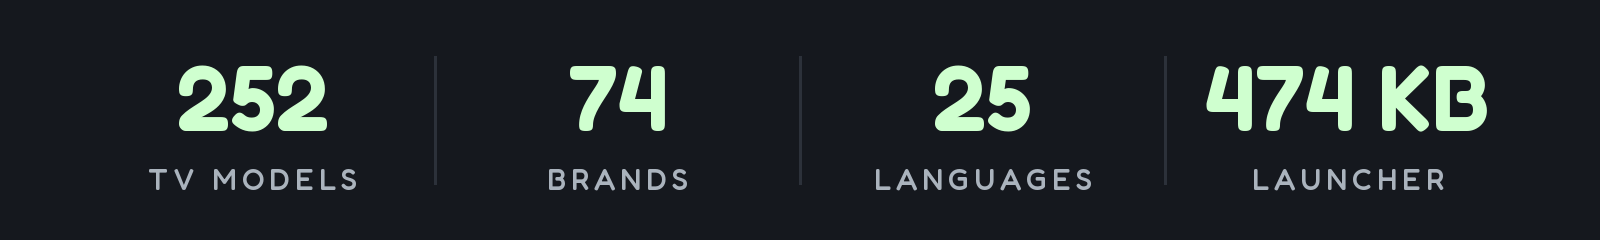
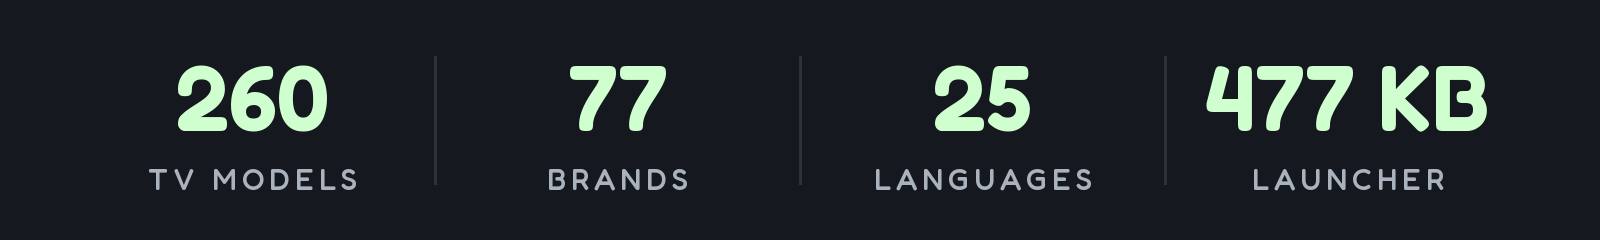
README: counts and card after Round T (260 TV models, 77 brands, 477 KB); Acer, Master-G and HOTACK join the brand list

Changed region(s): [[0.125, 0.2625, 0.2188, 0.5542], [0.375, 0.2625, 0.4375, 0.5542], [0.8125, 0.2625, 0.8438, 0.5542]]

diff --git a/tools/readme_stats.py b/tools/readme_stats.py
@@ -12,7 +12,7 @@ except ImportError:
     sys.exit("readme_stats.py needs Pillow: tools/venv/bin/pip install -r tools/requirements-perf.txt")
 
 FONT, OUT = sys.argv[1], sys.argv[2]
-STATS = [("252", "TV MODELS"), ("74", "BRANDS"), ("25", "LANGUAGES"), ("474 KB", "LAUNCHER")]
+STATS = [("260", "TV MODELS"), ("77", "BRANDS"), ("25", "LANGUAGES"), ("477 KB", "LAUNCHER")]
 W, H = 1600, 240
 img = Image.new("RGB", (W, H), "#15181e"); d = ImageDraw.Draw(img)
 def f(size, wt):

diff --git a/README.md b/README.md
@@ -19,7 +19,7 @@
 </p>
 
 <p align="center">
-  <a href="docs/PRESS.md"><img src="docs/card.jpg" alt="252 TV models · 74 brands · 25 languages · 474 KB launcher. Featured in TechCrunch, TechRadar, Tom's Guide, Mashable, Android Authority, XDA, FlatpanelsHD, It's FOSS, Phandroid, GIGAZINE, Xataka, WinFuture, Frandroid, Macitynet, Techaeris, TechPP and 171 more: 187 articles from 31 countries. Before: stock Google TV home with a sponsored ad. After: the Clean Your TV launcher." width="800"></a>
+  <a href="docs/PRESS.md"><img src="docs/card.jpg" alt="260 TV models · 77 brands · 25 languages · 477 KB launcher. Featured in TechCrunch, TechRadar, Tom's Guide, Mashable, Android Authority, XDA, FlatpanelsHD, It's FOSS, Phandroid, GIGAZINE, Xataka, WinFuture, Frandroid, Macitynet, Techaeris, TechPP and 171 more: 187 articles from 31 countries. Before: stock Google TV home with a sponsored ad. After: the Clean Your TV launcher." width="800"></a>
 </p>
 
 **The viral tweet:** [x.com/gathint/status/2111379569030939102](https://x.com/gathint/status/2111379569030939102)
@@ -112,14 +112,14 @@ Anything running **Android TV** or **Google TV**.
 
 Tested lists from contributors, one folder per model in [`examples/`](examples/):
 
-**TCL** 57 · **Sony** 31 · **Xiaomi** 28 · **Philips** 12 · **Hisense** 9 · **Skyworth** 9 · **Amazon Fire TV** 7 ·
-**Thomson** 4 · **BenQ** 3 · **Google** 3 · **OnePlus** 3 · **Panasonic** 3 · **CHiQ** 2 · **FFalcon** 2 · **Haier** 2 ·
-**Hitachi** 2 · **Kalley** 2 · **Motorola** 2 · **Nokia** 2 · **NVIDIA Shield** 2 · **onn** 2 · **Redmi** 2 ·
-**SHARP** 2 · **Toshiba** 2 · **Vu** 2 ·
-AiPro2K · AIWA · Artel · Caxium · Cecotec · Challenger · Compac · Dialog · EKO · Freebox · Grundig · Insignia Fire TV ·
-JVC · Karbonn · Kogan · Lumio · MTC · Noblex · OK. · PEAQ · Polytron · PRISM+ · RCA · RockTek · Sankey · SANYO · Sber ·
-Super General · Tele System · TiVo · Tornado · Turkcell · Verizon · Vidda · Vision ·
-Anker Nebula, BYINTEK, Epson, Formovie, Gadnic, JMGO, Magcubic, Portronics, Stellamore, Wanbo and XGIMI projectors
+**TCL** 57 · **Sony** 31 · **Xiaomi** 28 · **Philips** 14 · **Hisense** 9 · **Skyworth** 9 · **Amazon Fire TV** 7 ·
+**Thomson** 4 · **BenQ** 3 · **Google** 3 · **Haier** 3 · **OnePlus** 3 · **Panasonic** 3 · **CHiQ** 2 · **FFalcon** 2 ·
+**Hitachi** 2 · **Kalley** 2 · **Motorola** 2 · **Nokia** 2 · **NVIDIA Shield** 2 · **onn** 2 · **RCA** 2 · **Redmi** 2 ·
+**Sankey** 2 · **SHARP** 2 · **Toshiba** 2 · **Vu** 2 ·
+Acer · AiPro2K · AIWA · Artel · Caxium · Cecotec · Challenger · Compac · Dialog · EKO · Freebox · Grundig ·
+Insignia Fire TV · JVC · Karbonn · Kogan · Lumio · Master-G · MTC · Noblex · OK. · PEAQ · Polytron · PRISM+ · RockTek ·
+SANYO · Sber · Super General · Tele System · TiVo · Tornado · Turkcell · Verizon · Vidda · Vision ·
+Anker Nebula, BYINTEK, Epson, Formovie, Gadnic, HOTACK, JMGO, Magcubic, Portronics, Stellamore, Wanbo and XGIMI projectors
 
 <details>
 <summary><strong>The full list</strong></summary>
@@ -425,7 +425,7 @@ tools/theme.sh themes/aurora                                 # push a theme; --r
 | [`tools/flamechart.py`](tools/flamechart.py) | Draws a before/after flame chart from those traces, for a pull request: one lane per thread on a shared time scale, the work a change targets in magenta with its total. Optional, like the trace tools. [Guide](tools/flamechart.md). |
 | [`tools/screendiff.py`](tools/screendiff.py) | Compares a before and an after screenshot pixel by pixel, leaving out the clock or anything you mask, and writes the pair with your Wi-Fi name blurred. Optional, like the trace tools. [Guide](tools/screendiff.md). |
 | [`tools/race_calendar.py`](tools/race_calendar.py) | Writes this season's F1 calendar into a theme for race-weekend mode, from the free Jolpica API. |
-| [`launcher/build-and-install.sh`](launcher/build-and-install.sh) | Builds a shrunk release (about 474 KB), installs it, switches Home, and rolls back if Home does not land on it. |
+| [`launcher/build-and-install.sh`](launcher/build-and-install.sh) | Builds a shrunk release (about 477 KB), installs it, switches Home, and rolls back if Home does not land on it. |
 
 The scripts never leave the TV without a Home app: they only disable a stock launcher they recognise,
 and skip the Home app in a list until another launcher answers HOME. Details below.
@@ -497,7 +497,7 @@ apps), which is why the report names that loss per package instead of calling it
 
 ## The launcher
 
-A small native home screen for Android TV: **about 474 KB**, plain Java, built for TVs with 1 GB of RAM.
+A small native home screen for Android TV: **about 477 KB**, plain Java, built for TVs with 1 GB of RAM.
 No blur, no video, no network permission, no background services.
 
 The **TV** needs Android 8.0 (API 26) or newer: `minSdk` is a compile-time floor in

diff --git a/.github/maintainer/MAINTAINER.md b/.github/maintainer/MAINTAINER.md
@@ -1,7 +1,7 @@
 # How CleanYourTV PRs are reviewed
 
 CleanYourTV (Gathin23/cleanyourtv) is a prompt plus tools that debloat Android TV / Google TV / Fire TV over
-ADB and a tiny native launcher (`launcher/`, plain Java, ~474 KB, for 1 GB TVs). Contributors mostly add
+ADB and a tiny native launcher (`launcher/`, plain Java, ~477 KB, for 1 GB TVs). Contributors mostly add
 tested TV lists under `examples/<tv>/`, translations, docs, small launcher options, themes, add-ons and tools.
 
 ## The policy: a small core plus a well-indexed hub
